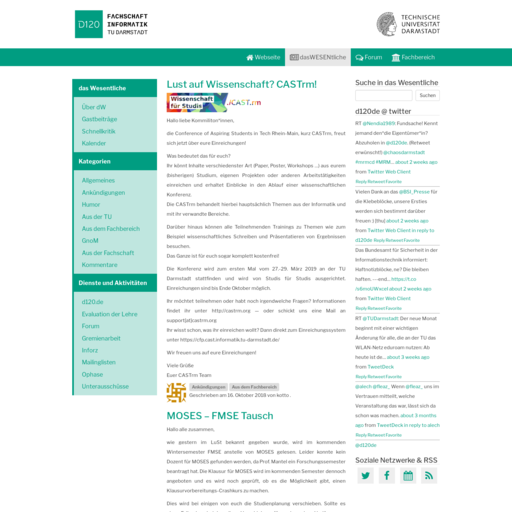
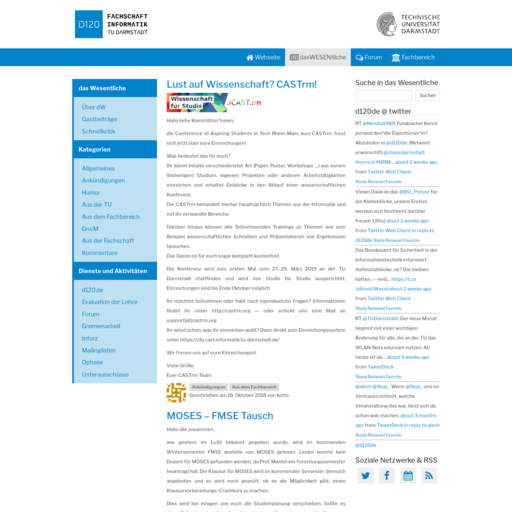
Changed color

diff --git a/header.php b/header.php
@@ -11,20 +11,22 @@
 	<style type="text/css" media="screen, projection">
 		@import url( https://daswesentliche.d120.de/wp-content/plugins/schreikasten/css/schreikasten.css );
 		/*@import url( https://www.fachschaft.informatik.tu-darmstadt.de/d120de/css/head.css );*/
-    <?php $base = 'http://localhost:8000/djangocms' ?>
+    <?php $base = 'http://localhost:8080/djangocms' ?>
     <?php /*$base = 'https://www.fachschaft.informatik.tu-darmstadt.de/'*/ ?>
     @import url( <?php echo $base ?>/static/vendor/bootstrap/dist/css/bootstrap.min.css );
     @import url( <?php echo $base ?>/static/vendor/font-awesome/css/font-awesome.min.css );
     @import url( <?php echo $base ?>/static/vendor/typeface-libre-franklin/index.css );
     @import url( <?php echo $base ?>/static/d120/css/custom.css );
+
+    <?php $color = '#0083CC'; /* $color = '#009D81'; */ ?>
       a, footer a:hover, .sidebar-nav a, .sidebar-nav a:hover {
-        color:#009D81;
+        color: <?php echo $color; ?>;
       }
       .navbar, .links .widget_nav_menu, .sidebar-active, .sidebar-active:hover, .sidebar-active:focus, .sidebar-active > a:hover, .sidebar-active > a:focus, #mainLogo {
-        background-color:#009D81!important;
+        background-color:<?php echo $color; ?>!important;
       }
       .sidebar-active, .sidebar-active:hover {
-        border-left: 5px solid #009D81!important;
+        border-left: 5px solid <?php echo $color; ?>!important;
       }
 	</style>
         <link media="screen,projection" href="<?php bloginfo('stylesheet_url'); ?>" type="text/css" rel="stylesheet" title="Standard-Layout" />

diff --git a/footer.php b/footer.php
@@ -30,7 +30,7 @@
      seinen Java-Script-Code einfügt. -->
     <?php wp_footer(); ?>
 
-    <?php $base = 'http://localhost:8000/djangocms' ?>
+    <?php $base = 'http://localhost:8080/djangocms' ?>
     <?php /*$base = 'https://www.fachschaft.informatik.tu-darmstadt.de/'*/ ?>
     <script src="<?php echo $base; ?>/static/vendor/jquery/dist/jquery.min.js"></script>
     <script src="<?php echo $base; ?>/static/vendor/bootstrap/dist/js/bootstrap.min.js"></script>
